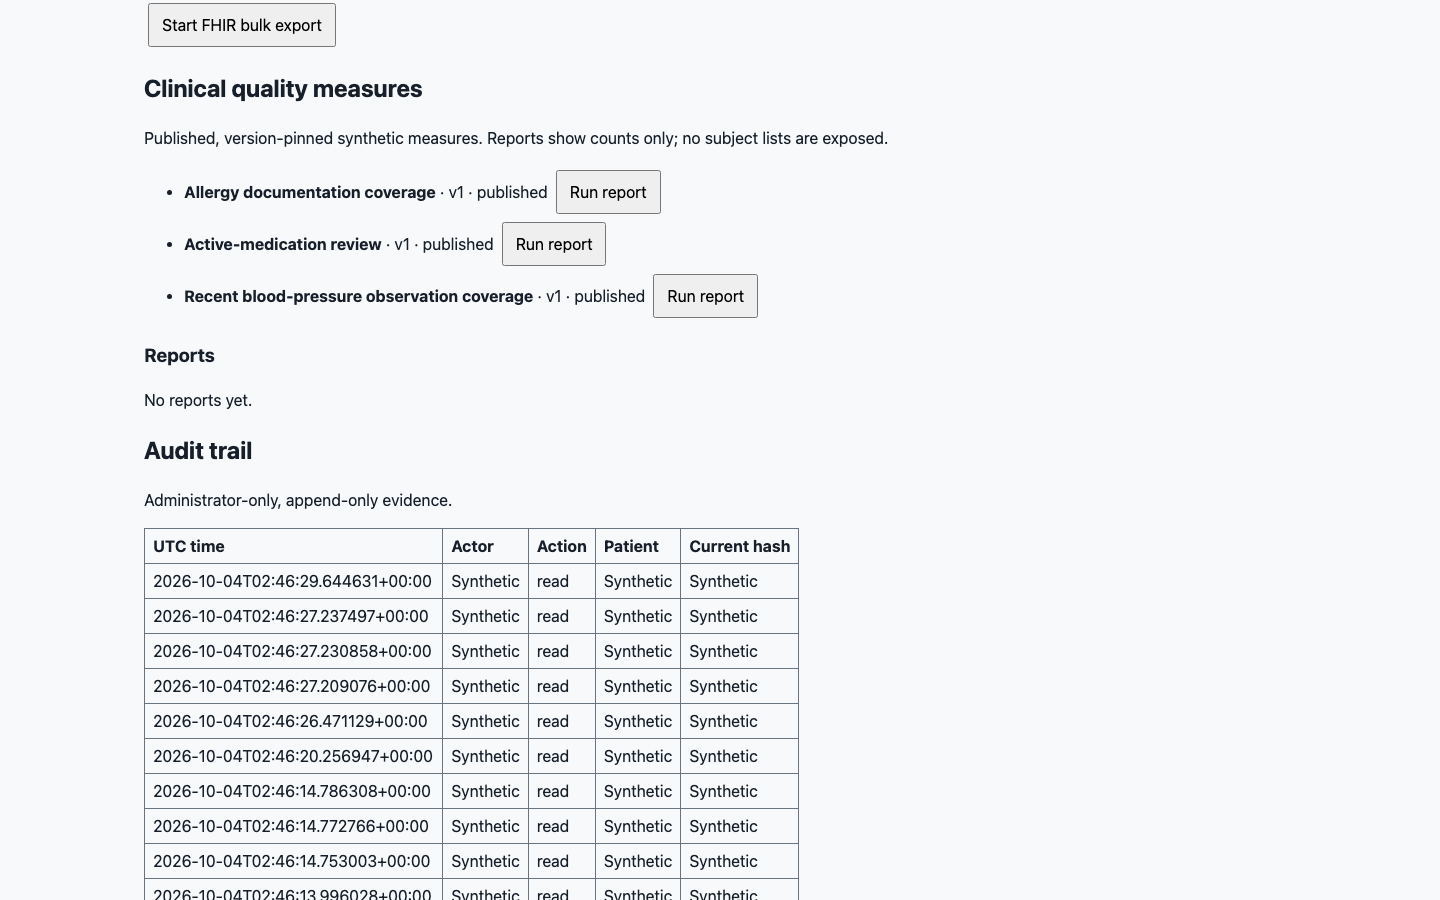
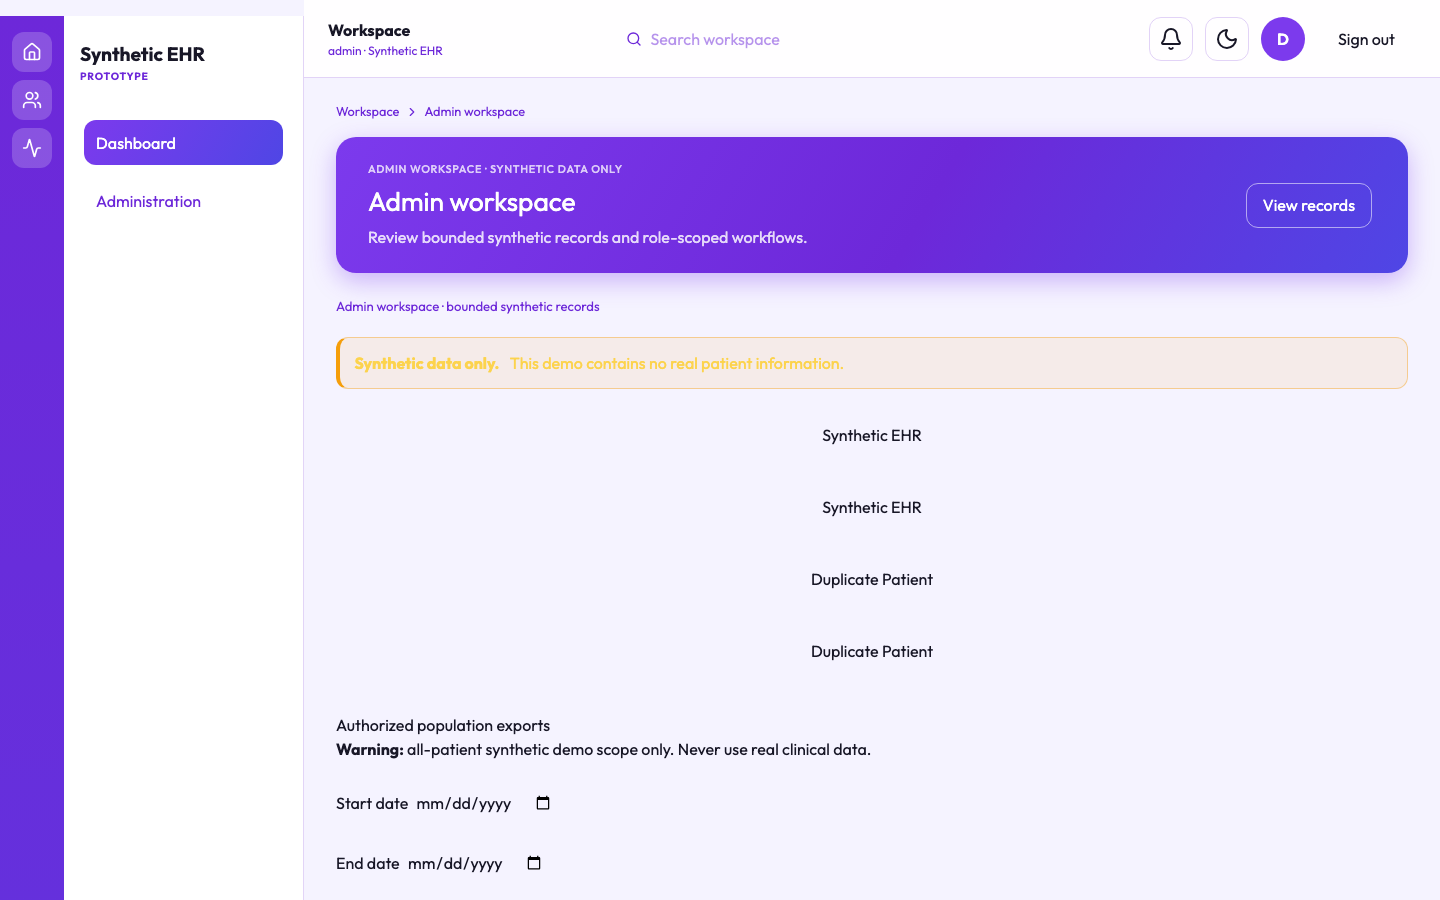
docs: replace role screenshots with Tailwind UI

diff --git a/README.md b/README.md
@@ -43,15 +43,12 @@ illustrative UI captures, not clinical validation or evidence of production read
 | [![Synthetic MFA sign-in screen](docs/screenshots/login-mfa.png)](docs/screenshots/login-mfa.png) | 1440x900 | Synthetic account sign-in with the mandatory TOTP field and non-clinical safety notice. |
 | [![Synthetic MFA sign-in screen on tablet](docs/screenshots/login-mfa-tablet.png)](docs/screenshots/login-mfa-tablet.png) | 1024x768 | Current-source responsive sign-in capture at tablet width. |
 | [![Synthetic MFA sign-in screen on mobile](docs/screenshots/login-mfa-mobile.png)](docs/screenshots/login-mfa-mobile.png) | 390x844 | Current-source responsive sign-in capture at mobile width. |
+| [![Patient synthetic record workspace](docs/screenshots/patient-workspace.png)](docs/screenshots/patient-workspace.png) | 1440x900 | Patient synthetic record workspace with bounded summary, questionnaire, and amendment surfaces. |
 | [![Clinician medication order workspace](docs/screenshots/clinician-medication-safety.png)](docs/screenshots/clinician-medication-safety.png) | 1440x900 | Clinician record workspace at the medication-order workflow, with the synthetic-data boundary visible. |
 | [![Administrator audit workspace](docs/screenshots/administrator-audit-jobs.png)](docs/screenshots/administrator-audit-jobs.png) | 1440x900 | Administrator quality and append-only audit view; sensitive-looking values are masked in this documentation capture. |
 | [![Developer SMART and FHIR workspace](docs/screenshots/developer-smart-fhir.png)](docs/screenshots/developer-smart-fhir.png) | 1440x900 | Developer SMART/FHIR workspace with synthetic-data and browser-storage boundaries. |
 
-The patient questionnaire/record capture was omitted because the seeded patient workspace did
-not load reliably in the current demo run. Tablet (1024x768), mobile (390x844), and patient
-workspace captures were omitted rather than fabricated because an isolated backend/database was
-not available for this verification run. The responsive sign-in captures were taken from the
-current source Vite server; role workspaces require the unavailable backend.
+The authenticated role captures were taken from the current source Vite server and isolated synthetic backend at 1440x900.
 
 ## One-command local HTTPS platform (Ticket01)
 

diff --git a/docs/changelogs/CHANGELOG-2026-10-04-Maurice.md b/docs/changelogs/CHANGELOG-2026-10-04-Maurice.md
@@ -4,8 +4,8 @@
 
 - Added the Ticket 01 Tailwind v4 build-time foundation, self-hosted Outfit weights, local icon dependency, semantic Synthetic EHR tokens, primitive state variants, and a memory-only light-theme seam.
 
-- Added a README screenshot gallery for the current synthetic demo workflows, covering sign-in, clinician medication ordering, administrator audit/quality review, and developer SMART/FHIR navigation.
-- Added optimized documentation captures with synthetic labels and masked audit values; the unreliable patient workspace capture was intentionally omitted.
+- Added a README screenshot gallery for the current synthetic demo workflows, covering sign-in, clinician medication ordering, administrator audit/quality review, patient record/questionnaire review, clinician medication ordering, administrator audit/quality review, and developer SMART/FHIR navigation.
+- Replaced optimized role documentation captures with current Tailwind UI at 1440x900, including a reliable populated synthetic patient workspace; synthetic labels and masked audit values remain in evidence.
 
 ## Ticket 02 — Responsive application shell
 
